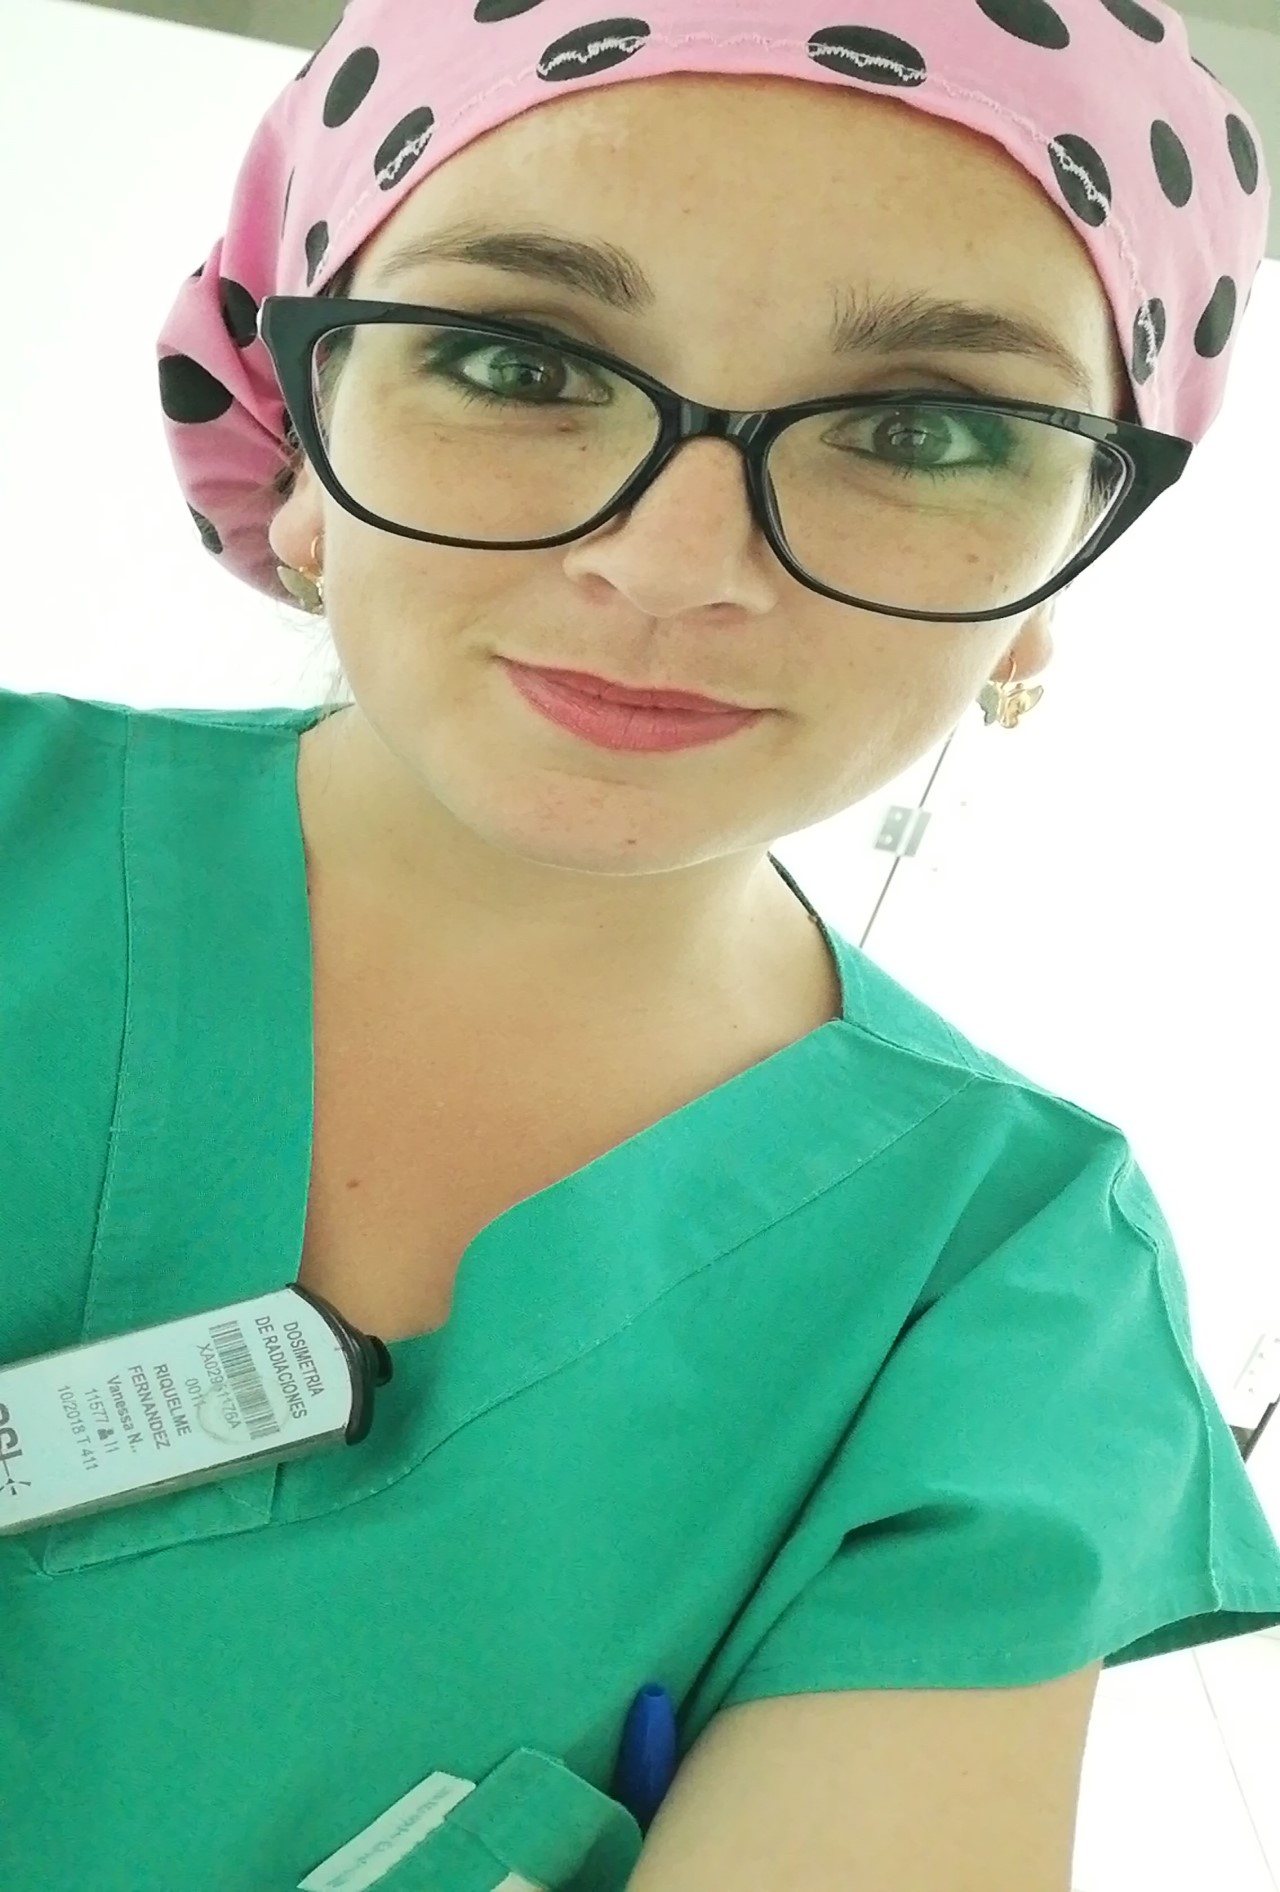
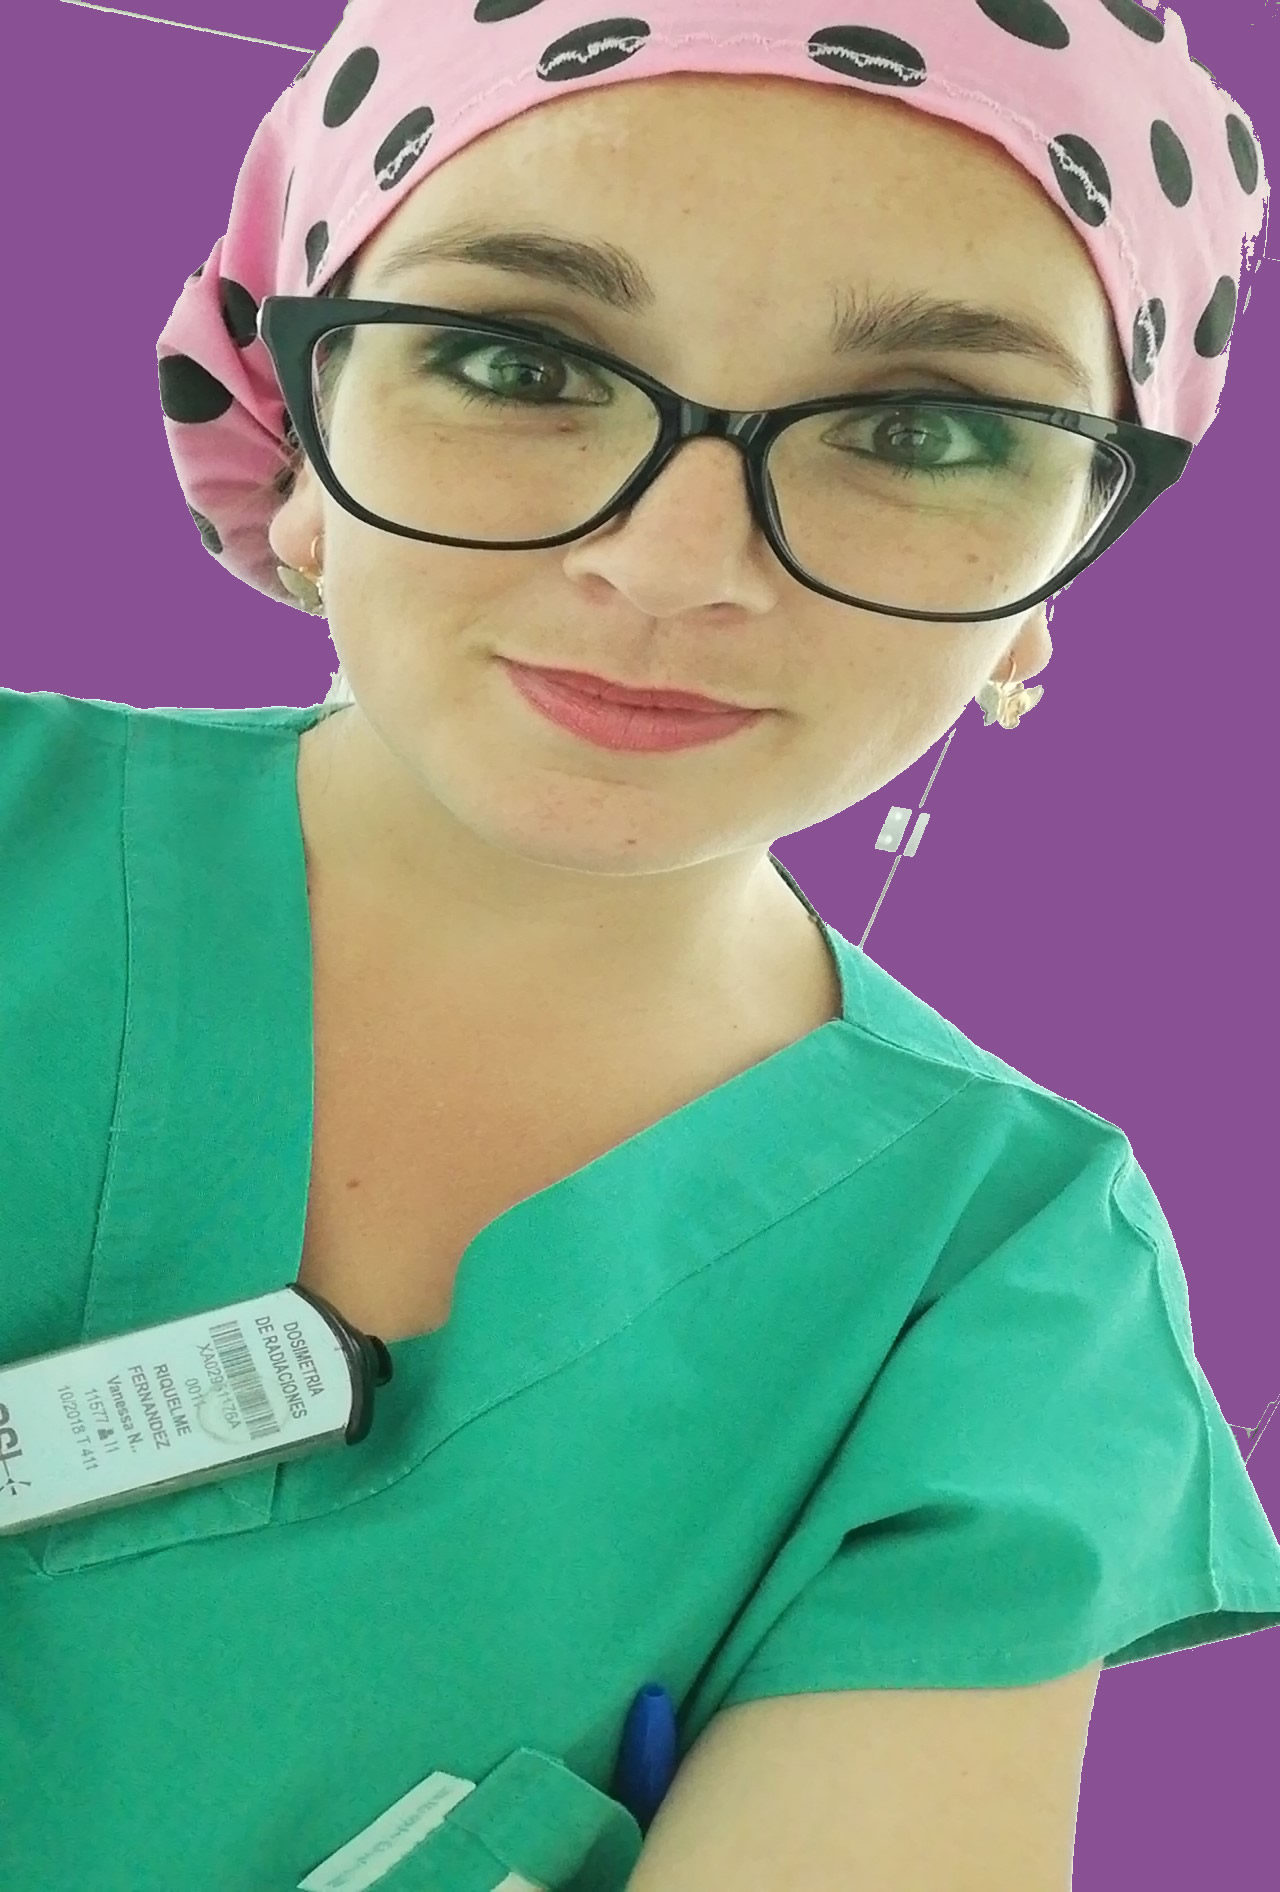
modificacion responsive 572px hacia abajo y activacion del main y difuminado de la imagen con el fondo

Changed region(s): [[0.5938, 0.0, 1.0, 0.8108], [0.0, 0.0, 0.2812, 0.3742], [0.8125, 0.842, 1.0, 1.0]]

diff --git a/css/style.css b/css/style.css
@@ -182,14 +182,14 @@ h2{
 .experience-mainTitle{
   /*margin-left: 30px; */
   margin: 0px;
-  padding: 1.5rem 0 1.5rem 1.5rem;
+  padding: 1.5rem 0 1.5rem 0rem;
   
   
 }
 .contact{
   display:flex;
-  background-color: rgba(123, 228, 252, 0.795);
-  padding: 30px 30px 30px 0px;
+  background-color: rgba(138, 79, 111, 0.795);
+  padding: 1.7rem 2.5rem 1.7rem 2.5rem;
   justify-content: space-between;
   align-items: center;
   flex-wrap: wrap;
@@ -197,7 +197,7 @@ h2{
 
 .contact-form{
   /* border: 1px solid blue; */
-  margin-left: 30px;
+  /* margin-left: 30px; */
 }
 
 .contact-form input{
@@ -260,11 +260,11 @@ h2{
 
 
 .footer{
-  background-color: #7bbcf8;
+  background-color: #c291be;
   display: flex;
   justify-content: space-between;
   align-items: center;
-  padding:10px 60px;
+  padding:10px 2.5rem;
   flex-wrap: wrap;
 }
 .footer-details{
@@ -305,8 +305,11 @@ h2{
     bottom: 0;
   }
   .experience-mainTitle{
-    font-size: 1.5rem;
-    padding: 1.3rem 0 1.3rem 0.9rem;
+    /*margin-left: 30px; */
+    margin: 0px;
+    padding: 1.5rem 0 1.5rem 1.5rem;
+    
+    
   }
   h1{
     z-index: 5;
@@ -361,7 +364,40 @@ h2{
   .experience{
     width: 100%;
   }
+  .experience-mainTitle{
+    padding: 1.3rem 0 1.3rem 1.5rem;
+    font-size: 1.5rem;
+  }
 }
+@media screen and (max-width:572px){
+  .contact{
+    justify-content: center;
+    padding: 1.7rem 2.5rem 0.5rem 2.5rem;
+    
+  }
+  .contact-form{
+    text-align: center;
+    /* margin: 0; */
+  }
+  .contact-form button{
+    margin: 1rem auto 1.3rem auto;
+  }
+  .redes-link{
+    margin-bottom: 1rem;
+  }
+  .redes{
+    flex-wrap: wrap;
+    justify-content: center;
+  }
+  .footer{
+    display: block;
+    text-align: center;
+  }
+  .footer-details{
+    justify-content: center;
+  }
+}
+
 @media screen and (max-width:480px){
   .projects{
     padding: 0px 1.2rem 6px 1.2rem;
@@ -391,6 +427,13 @@ h2{
     padding: 1rem;
     margin: 0 1.5rem 1.3rem 1.5rem;
     margin-top: -1.5rem;
+  }
+  .experience-mainTitle{
+    padding: 1.1rem 0 1.1rem 1.2rem;
+    font-size: 1.4rem;
+  }
+  .contact, .footer{
+    padding: 1rem 1.3rem 0.5rem 1.3rem;
   }
 }
 @media screen and (max-width:320px){
@@ -429,6 +472,16 @@ h2{
   }
   .experience-description{
     font-size: 0.9rem;
+  }
+  .experience-mainTitle{
+    padding: 1.1rem 0 1.1rem 0.9rem;
+    font-size: 1.3rem;
+  }
+  .redes-link.github{
+    margin-left: 0;
+  }
+  .contact, .footer{
+    padding: 1rem 1rem 0.5rem 1rem;
   }
 }
 

diff --git a/index.html b/index.html
@@ -12,7 +12,7 @@
   <!-- en linea
   tag
   externos -->
-  
+    
 </head>
 <body>
 
@@ -139,7 +139,7 @@
   </div>
   </section>
 
-<!--   <section id="contactame" class="contact">
+  <section id="contactame" class="contact">
     <div class="wrapper">
     <form action="" class="contact-form">
       <h2>¿Creamos algo?</h2>
@@ -165,7 +165,7 @@
     </div>
     <p class="footer-text">Diseñado por Vanessa Riquelme</p>
   </div>
-  </footer>  -->
+  </footer> 
 
 
 </body>
